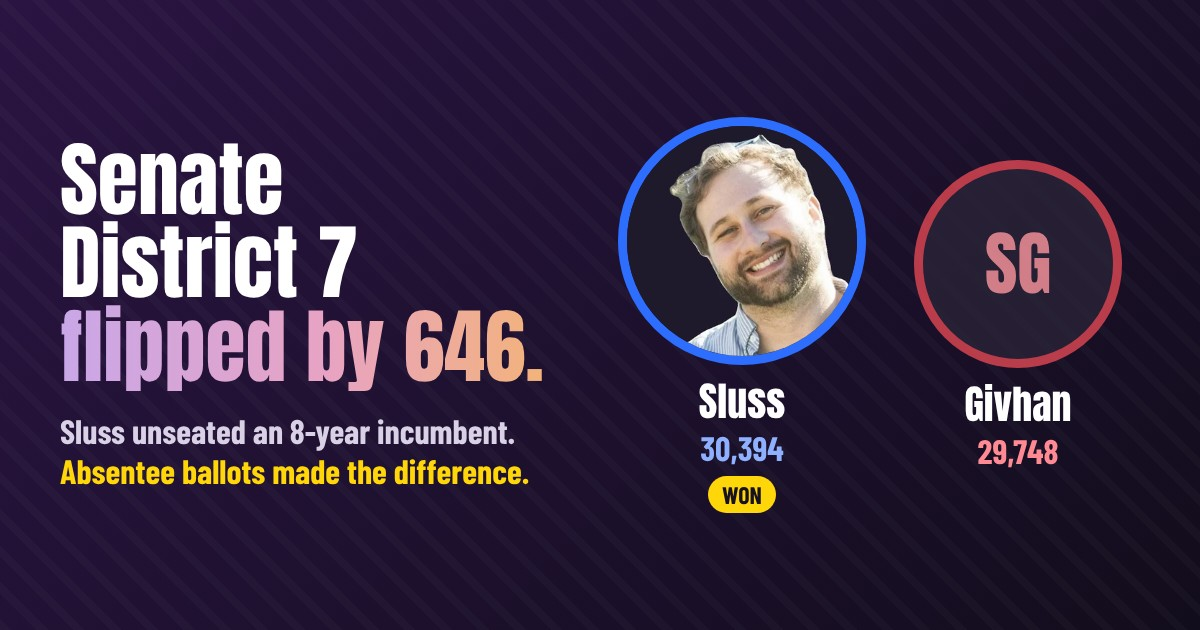
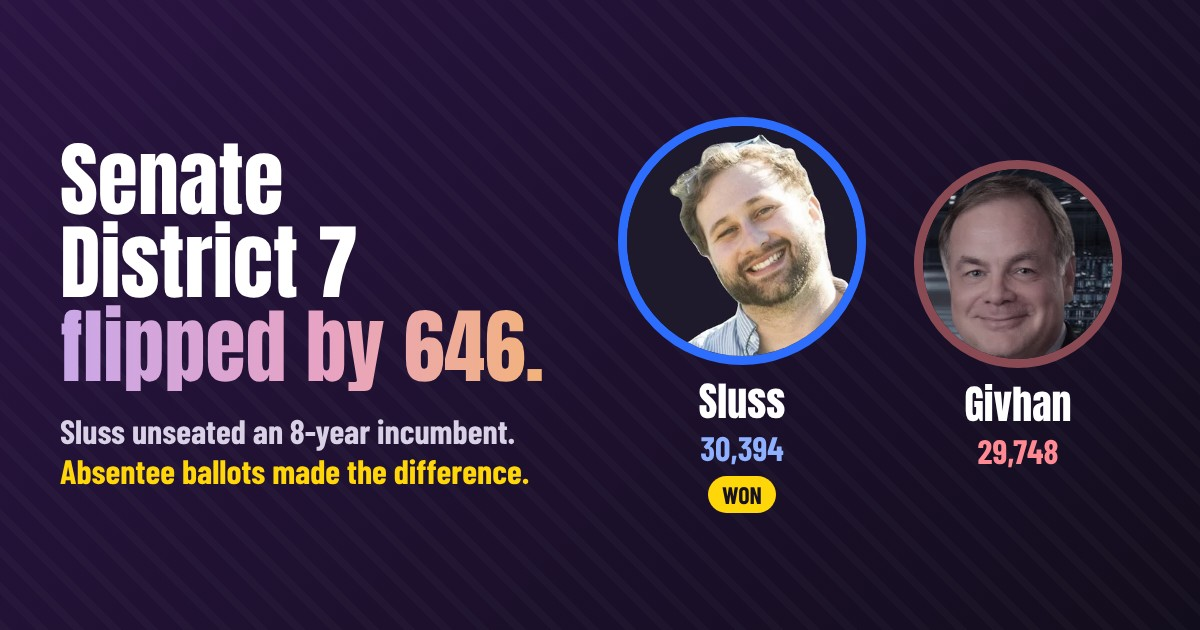
Sam Givhan photo on SD7 page and share image (preview, local only)
Claude-Session: https://claude.ai/code/session_01MxGceYvT6LnqY3PATehMyz

Changed region(s): [[0.74, 0.2413, 0.9558, 0.6032]]

diff --git a/districts/alabama-senate-district-7.html b/districts/alabama-senate-district-7.html
@@ -349,8 +349,6 @@ th{position:sticky;top:0;background:var(--ink-2);color:var(--muted);font-size:13
 
 
 
-
-
 /*smx*/.smx{margin:36px 0 0}
 .smx h2{margin:0 0 6px}
 .smx .sub{margin:0 0 14px;color:var(--muted);font-size:15px}
@@ -443,14 +441,13 @@ th{position:sticky;top:0;background:var(--ink-2);color:var(--muted);font-size:13
 b.addEventListener('click',function(){set(true)});n.querySelector('.x').addEventListener('click',function(){set(false)});n.addEventListener('click',function(e){if(e.target.closest('a'))set(false)});document.addEventListener('keydown',function(e){if(e.key==='Escape')set(false)});var ly=scrollY;addEventListener('scroll',function(){var y=scrollY;b.classList.toggle('hide',y>ly&&y>120);ly=y},{passive:true})})();</script><!--/menu-->
 
 
-
 <main>
 <a class="home" href="../"><img src="../images/profile.webp" alt="">Marvyn Mylk</a>
 <article>
 <h1>Jared Sluss won by <span>646 votes.</span></h1>
 <p class="lede">Democrat <span class="cand d">Jared Sluss</span> unseated Republican Sen. <span class="cand r">Sam Givhan</span> in Alabama Senate District 7, a Madison County seat <span class="cand r">Givhan</span> had held since 2018. Out of more than 60,000 votes, the difference was 646.</p>
 <div class="answer"><b class="k">Short answer</b><p>Alabama Senate District 7 is now represented by <b>Jared Sluss (D)</b>, who beat Sam Givhan 30,394 votes to 29,748 in November 2026, according to unofficial results.</p></div>
-<div class="faceoff rv"><div class="fc d"><img src="../images/people/sluss.webp" alt="Jared Sluss" width="92" height="92" loading="lazy"><b>Jared Sluss</b><small>Democrat</small><span class="v">30,394</span><span class="won">Won</span></div><span class="vs">vs.</span><div class="fc r lose"><span class="ini" aria-hidden="true">SG</span><b>Sam Givhan</b><small>Republican, incumbent since 2018</small><span class="v">29,748</span></div><p class="note" style="grid-column:1/-1;margin:6px 0 0">State Senate District 7, districtwide. Unofficial results.</p></div>
+<div class="faceoff rv"><div class="fc d"><img src="../images/people/sluss.webp" alt="Jared Sluss" width="92" height="92" loading="lazy"><b>Jared Sluss</b><small>Democrat</small><span class="v">30,394</span><span class="won">Won</span></div><span class="vs">vs.</span><div class="fc r lose"><img src="../images/people/givhan.webp" alt="Sam Givhan" width="92" height="92" loading="lazy"><b>Sam Givhan</b><small>Republican, incumbent since 2018</small><span class="v">29,748</span></div><p class="note" style="grid-column:1/-1;margin:6px 0 0">State Senate District 7, districtwide. Unofficial results.</p></div>
 <div class="hero-n rv"><span class="cnt" data-to="646">0</span><small>votes</small></div>
 <p class="hero-c">about one vote in every 93 cast</p>
 
@@ -497,7 +494,8 @@ new IntersectionObserver(function(es,o){es.forEach(function(e){if(e.isIntersecti
   <div class="orb" id="orb" aria-hidden="true"><img class="me" src="../images/profile.webp" alt="" width="96" height="96"></div>
   <h2 id="join-h">The South is <span>closer than you think.</span></h2>
   <p>I'm Marvyn. I live in North Alabama and track the races and numbers that show it. Get the next story, plus a heads-up when my books come out.</p>
-  <!--bks--><a class="bks" href="../about/"><span class="cv2"><img src="../images/purple-south-cover.jpg" alt="The Purple South" width="38" height="57" loading="lazy"><img src="../images/monster-on-tv-cover.jpg" alt="The Monster on TV" width="38" height="57" loading="lazy"></span><span><b>The Purple South &amp; The Monster on TV</b><small>Two new books, coming soon. Be the first to know.</small></span></a><!--/bks-->
+  
+<!--bks--><a class="bks" href="../about/"><span class="cv2"><img src="../images/purple-south-cover.jpg" alt="The Purple South" width="38" height="57" loading="lazy"><img src="../images/monster-on-tv-cover.jpg" alt="The Monster on TV" width="38" height="57" loading="lazy"></span><span><b>The Purple South &amp; The Monster on TV</b><small>Two new books, coming soon. Be the first to know.</small></span></a><!--/bks-->
 <form class="signup" name="book-news" method="POST" data-netlify="true" netlify-honeypot="bot-field">
     <input type="hidden" name="form-name" value="book-news"><input type="hidden" name="signup-spot" value="alabama-senate-district-7">
     <p hidden><label>Leave this empty <input name="bot-field"></label></p>
